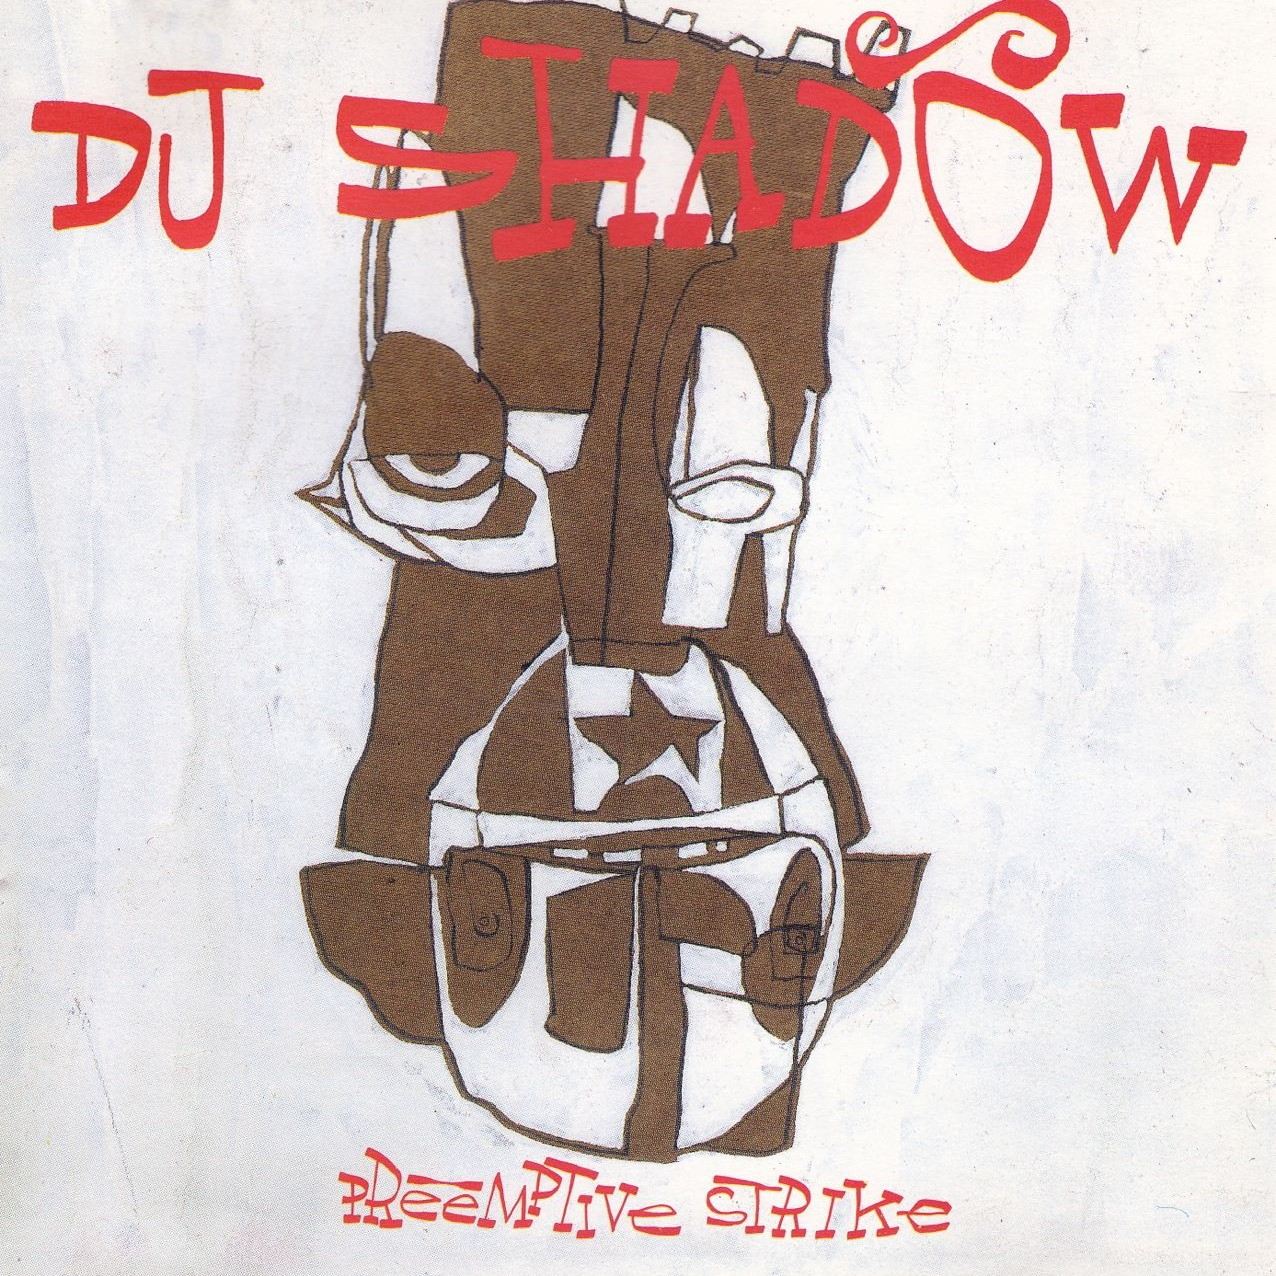
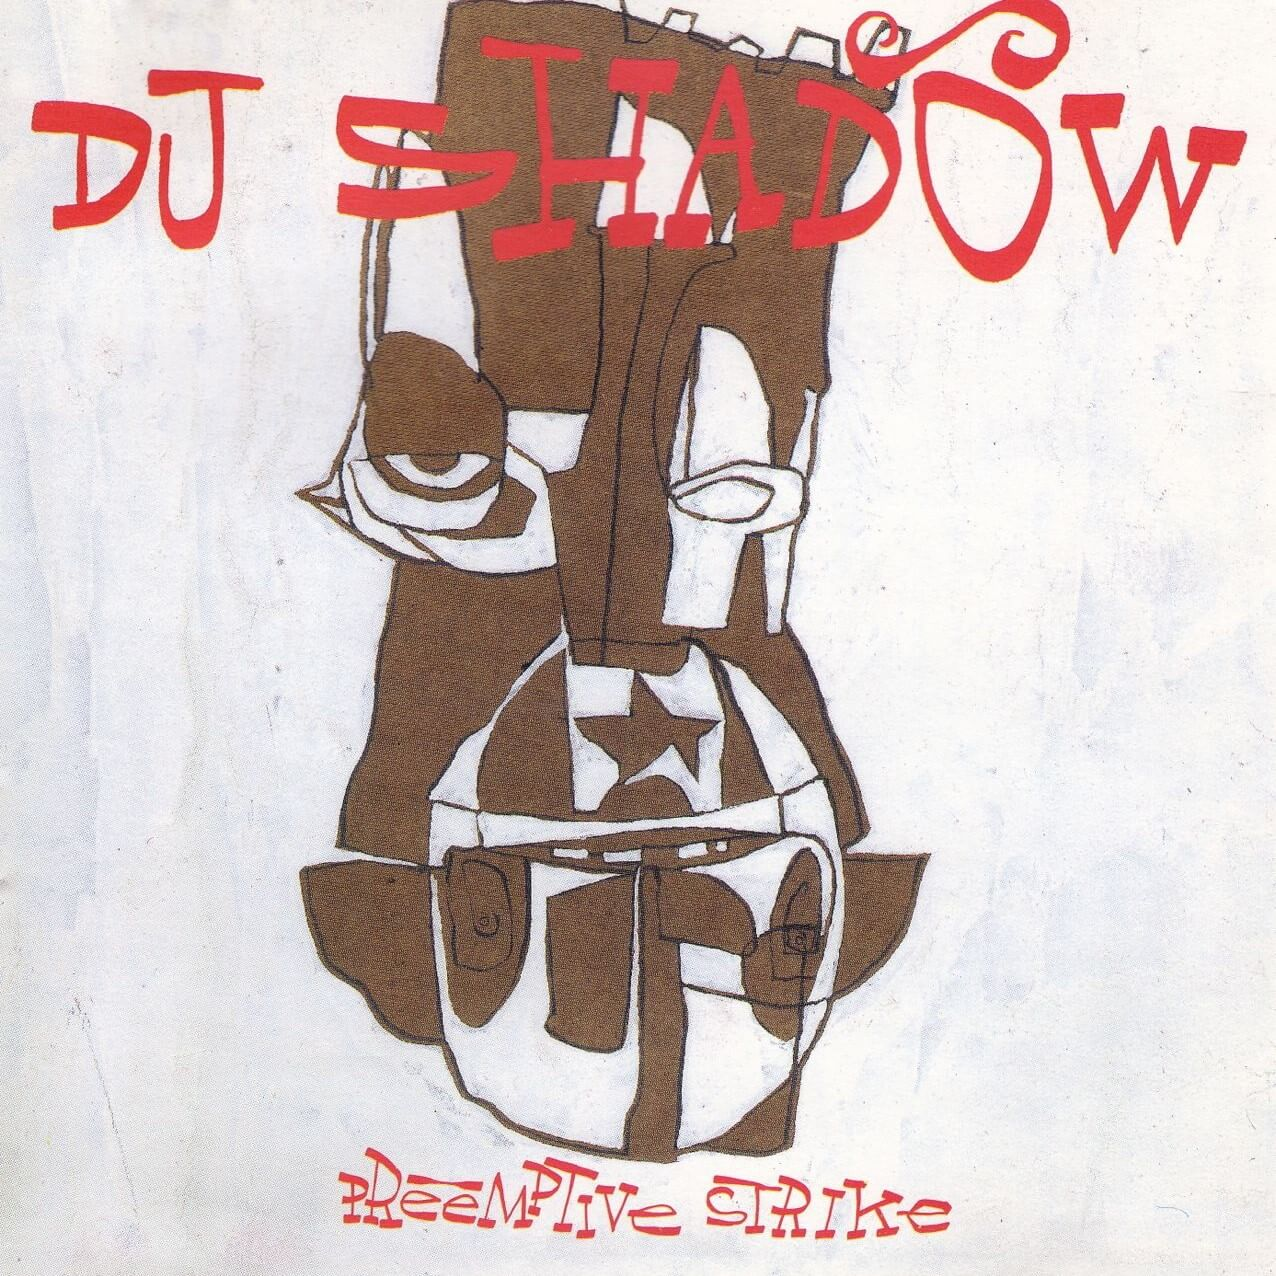
Gallery, album and merch image all reduced in size

diff --git a/README.md b/README.md
@@ -241,6 +241,7 @@ _Others:_
 - Microsoft Paint 3D - For colourmatch.
 - Browserstack - To check base compatibility.
 - freeformatter.com - to format html files.
+- tinyJPG - to reduce image file size.
 
 ---
 
@@ -375,16 +376,20 @@ The only issue of significance raised was issue #10. The 404.html code had an an
 element wrapped in a button. The solution was to use the anchor element only but styled
 as a button.
 
-Chrome Dev Tools Lighthouse suggested that for security reasons that rel="noreferrer" should be
-added to all external links. It indicates that no referrer information is to be leaked
-when following the link and also implies the noopener keyword behavior under the same
-conditions (taken from HTML Living Standard website).
+Chrome Dev Tools Lighthouse made a number of suggestions:
 
-Chrome Dev Tools Lighthouse also suggested that the embedded video iframe elements should have
-a title for screen readers. This has been added.
+- for security reasons that rel="noreferrer" should be
+  added to all external links. It indicates that no referrer information is to be leaked
+  when following the link and also implies the noopener keyword behavior under the same
+  conditions (taken from HTML Living Standard website).
 
-The final suggestion made by Lighthouse was to remove the user-scalable="no" from the meta element.
-Again for accessability reasons. This has been removed. 
+- the embedded video iframe elements should have
+  a title for screen readers. This has been added.
+
+- remove the user-scalable="no" from the meta element.
+  Again for accessability reasons. This has been removed.
+
+- size of images were reducing performance. All images have been reduced in size.
 
 The other significant issue in testing was on mobile devices where the browser address bar
 appears and disappears as the user scrolls, was causing a scaling issue where the fixed
@@ -393,11 +398,11 @@ on Chrome the background hero image on the landing page was allowed to scroll on
 devices only. From research, this appears to be a known issue which can be solved with
 Javascript, but that is beyond the scope of this project right now.
 
-All links both internal and external have been tested and verified from each page. External 
+All links both internal and external have been tested and verified from each page. External
 links open in a new tab. As stated previously neither the subscribe or contact forms send data.
 All social media links have been obtained from the official DJ Shadow website. While they all work,
-w3c Link Checker showed that three of the links are redirected. It has not been possible to 
-verify the functionality of the iTunes link without a valid iTunes account. Link checker showed 
+w3c Link Checker showed that three of the links are redirected. It has not been possible to
+verify the functionality of the iTunes link without a valid iTunes account. Link checker showed
 a server side problem.
 
 ---
@@ -454,7 +459,5 @@ Paragraph on the About page is taken from the AllMusic DJ Shadow Biography page 
 
 Information on deployment was taken from Github Documentation
 [here](https://docs.github.com/en/github/creating-cloning-and-archiving-repositories/cloning-a-repository).
-
-
 
 ---
